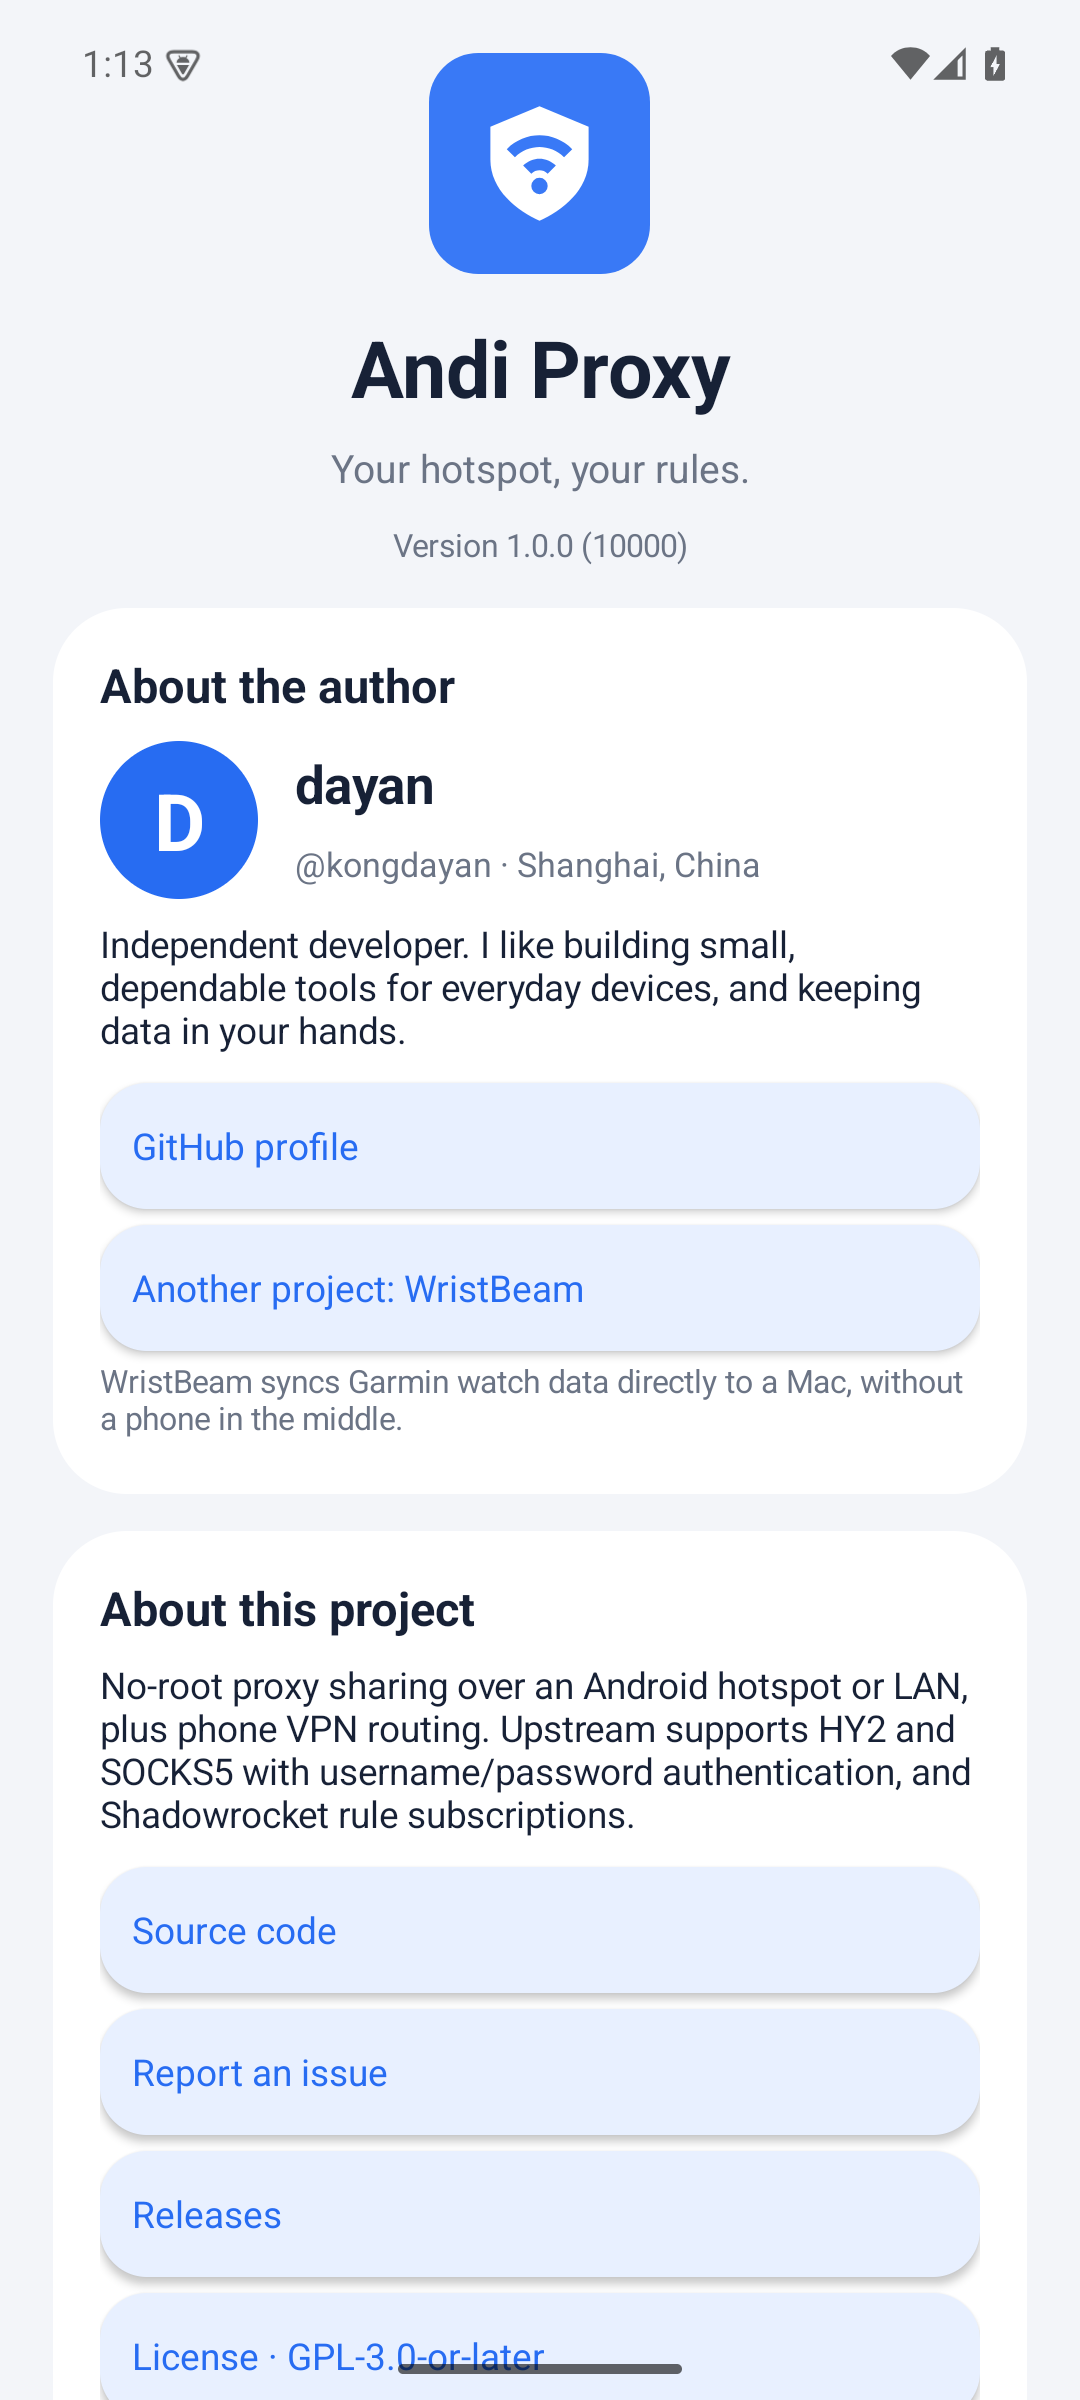
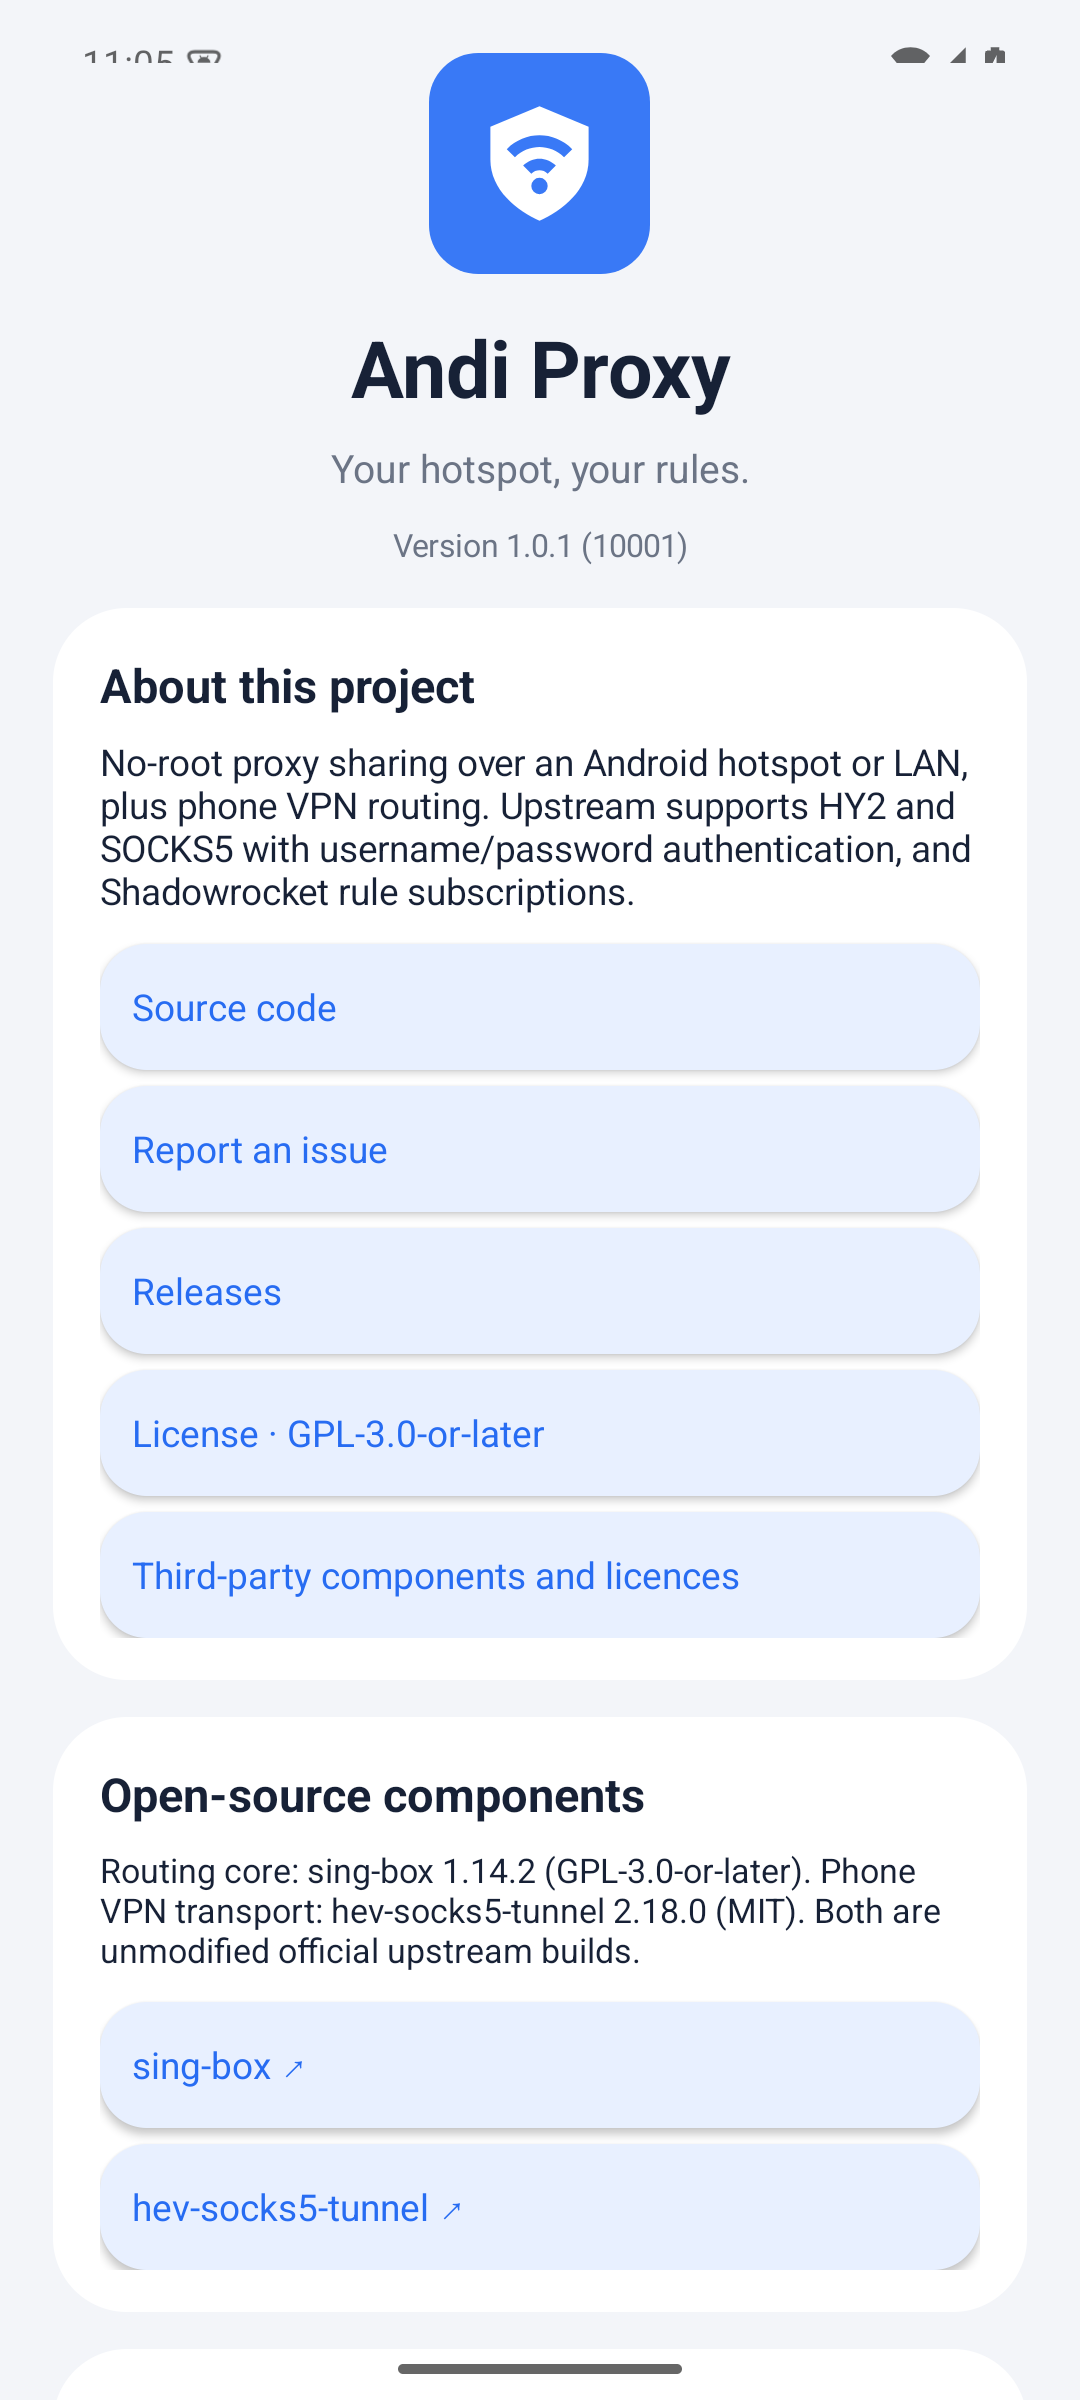
Remove personal author UI and prepare 1.0.1

diff --git a/app/src/main/java/com/andi/proxy/AboutActivity.java b/app/src/main/java/com/andi/proxy/AboutActivity.java
@@ -20,7 +20,7 @@ import java.io.ByteArrayOutputStream;
 import java.io.InputStream;
 import java.nio.charset.StandardCharsets;
 
-/** Author, source, licence and privacy information bundled with the APK. */
+/** Project, source, licence and privacy information bundled with the APK. */
 public final class AboutActivity extends Activity {
     private int GREEN, INK, MUTED, BACK, CARD;
     private boolean dark;
@@ -49,14 +49,9 @@ public final class AboutActivity extends Activity {
         setContentView(scroll);
 
         header();
-        author();
         project();
         components();
         privacy();
-        TextView footer = text(L.t("由 Andi Proxy 用心制作"), 12, MUTED);
-        footer.setGravity(Gravity.CENTER);
-        footer.setPadding(0, dp(18), 0, dp(8));
-        content.addView(footer);
     }
 
     private void header() {
@@ -80,40 +75,6 @@ public final class AboutActivity extends Activity {
         version.setGravity(Gravity.CENTER);
         version.setPadding(0, dp(6), 0, dp(16));
         content.addView(version);
-    }
-
-    private void author() {
-        LinearLayout card = card(L.t("关于作者"));
-        LinearLayout row = new LinearLayout(this);
-        row.setGravity(Gravity.CENTER_VERTICAL);
-        row.setPadding(0, dp(4), 0, dp(4));
-
-        TextView monogram = new TextView(this);
-        monogram.setText("D");
-        monogram.setTextColor(Color.WHITE);
-        monogram.setTextSize(30);
-        monogram.setTypeface(null, Typeface.BOLD);
-        monogram.setGravity(Gravity.CENTER);
-        GradientDrawable avatar = new GradientDrawable();
-        avatar.setShape(GradientDrawable.OVAL);
-        avatar.setColor(GREEN);
-        monogram.setBackground(avatar);
-        row.addView(monogram, new LinearLayout.LayoutParams(dp(60), dp(60)));
-
-        LinearLayout labels = new LinearLayout(this);
-        labels.setOrientation(LinearLayout.VERTICAL);
-        labels.setPadding(dp(14), 0, 0, 0);
-        TextView authorName = text("Andi Proxy", 20, INK);
-        authorName.setTypeface(null, Typeface.BOLD);
-        labels.addView(authorName);
-        labels.addView(text("contributors · " + L.t(""), 13, MUTED));
-        row.addView(labels);
-        card.addView(row);
-
-        card.addView(text(L.t("独立开发者。喜欢为日常设备做一些小而可靠的工具，让数据留在自己手里。"), 14, INK));
-        button(card, L.t("GitHub 主页"), () -> open(BuildConfig.AUTHOR_URL));
-        button(card, L.t("另一个项目：the companion project"), () -> open(BuildConfig.AUTHOR_PROJECT_URL));
-        card.addView(text(L.t("the companion project 把 Garmin 手表的数据直接同步到 Mac，不经过手机。"), 12, MUTED));
     }
 
     private void project() {

diff --git a/app/src/main/java/com/andi/proxy/MainActivity.java b/app/src/main/java/com/andi/proxy/MainActivity.java
@@ -224,7 +224,7 @@ public final class MainActivity extends Activity {
         button(advanced,L.t("设备诊断"),()->worker.execute(()->{ String r=DeviceDiagnostics.report(CoreRunner.binary(this)); runOnUiThread(()->help(L.t("设备诊断"),r)); }));
         LinearLayout about=card(L.t("关于"));
         about.addView(text(L.t("Andi Proxy · 无需 root 的热点代理共享。"),14,INK));
-        button(about,L.t("作者与开源信息"),()->startActivity(new Intent(this,AboutActivity.class)));
+        button(about,L.t("开源信息"),()->startActivity(new Intent(this,AboutActivity.class)));
         button(about,L.t("查看源代码"),()->openUrl(BuildConfig.PROJECT_URL));
         button(content,L.t("怎么使用"),this::usageGuide);
     }

diff --git a/README.ja.md b/README.ja.md
@@ -43,10 +43,6 @@ root も `iptables` も不要で、常時接続のリモートコントロール
 
 スクリーンショットは英語 UI です。アプリは簡体字中国語・日本語・韓国語・ロシア語にも対応しています。「設定 → 言語」または Android のアプリごとの言語設定で切り替えられます。
 
-| Japanese About | Russian home |
-| --- | --- |
-| ![Japanese About](docs/images/about-ja.png) | ![Russian home](docs/images/home-ru.png) |
-
 ## 機能
 
 | 分野 | できること |
@@ -221,9 +217,3 @@ Issue、プルリクエスト、実機での動作報告、翻訳の修正を歓
 Andi Proxy は **GPL-3.0-or-later** の下でライセンスされています。詳しくは [LICENSE](LICENSE) と [COPYRIGHT](COPYRIGHT) を参照してください。同梱の sing-box バイナリは GPL-3.0-or-later、hev-socks5-tunnel は MIT です。正確なバージョン、ソースへのリンク、SHA-256 ダイジェストは [THIRD_PARTY_NOTICES.md](THIRD_PARTY_NOTICES.md) に記載しています。アプリアイコンはオリジナルのベクターアセットです。
 
 本プロジェクトは独立したプロジェクトであり、SagerNet、sing-box、hev-socks5-tunnel、Samsung、Google とは関係ありません。
-
-## 作者について
-
-**Andi Proxy**（[contributors](https://github.com/kongdayan/andi-proxy)）は上海を拠点とする独立開発者です。Andi Proxy は、Garmin ウォッチのデータを Mac に直接同期するネイティブ macOS 向けヘルスコンパニオンアプリ [the companion project](https://github.com/kongdayan/andi-proxy) の兄弟プロジェクトにあたります。どちらのプロジェクトにも同じ考え方が流れています。データは自分のデバイスの手元に置き、日々使うツールは小さく、静かで、頼りになるものであるべきだと、そういう考え方です。
-
-作者とプロジェクトへのリンクは、アプリ内の「設定 → 作者とオープンソース情報」にも掲載しています。

diff --git a/README.zh-CN.md b/README.zh-CN.md
@@ -43,10 +43,6 @@ Andi Proxy 能把一部普通的 Android 手机变成一台小巧、自成一体
 
 截图使用英文界面。应用还提供简体中文、日语、韩语和俄语。可在「设置 → 语言」或 Android 的分应用语言设置中切换。
 
-| Japanese About | Russian home |
-| --- | --- |
-| ![Japanese About](docs/images/about-ja.png) | ![Russian home](docs/images/home-ru.png) |
-
 ## 功能
 
 | 类别 | 你能得到什么 |
@@ -221,9 +217,3 @@ scripts/                            pinned core fetch, i18n validation, smoke te
 Andi Proxy 以 **GPL-3.0-or-later** 许可证发布，详见 [LICENSE](LICENSE) 与 [COPYRIGHT](COPYRIGHT)。随附的 sing-box 二进制同样为 GPL-3.0-or-later；hev-socks5-tunnel 为 MIT。确切的版本、源码链接与 SHA-256 摘要列于 [THIRD_PARTY_NOTICES.md](THIRD_PARTY_NOTICES.md)。应用图标为原创矢量素材。
 
 本项目是独立项目，与 SagerNet、sing-box、hev-socks5-tunnel、Samsung 或 Google 均无隶属关系。
-
-## 关于作者
-
-**Andi Proxy**（[contributors](https://github.com/kongdayan/andi-proxy)）是一位常驻上海的自由开发者。Andi Proxy 与 [the companion project](https://github.com/kongdayan/andi-proxy) 是同一系列的作品 —— 后者是一款 macOS 原生健康伴侣应用，可把 Garmin 手表数据直接同步到 Mac。两个项目贯穿同一个理念：把数据留在你自己的设备上，让日常工具小巧、安静、可靠。
-
-作者与项目链接也随应用一起提供，位于 **设置 → 作者与开源信息**。

diff --git a/README.md b/README.md
@@ -43,10 +43,6 @@ There is no root, no `iptables`, no always-on remote control, and no hidden clou
 
 The UI is shown in English. The app also ships Simplified Chinese, Japanese, Korean and Russian. Change it in Settings → Language, or in Android's per-app language settings.
 
-| Japanese About | Russian home |
-| --- | --- |
-| ![Japanese About](docs/images/about-ja.png) | ![Russian home](docs/images/home-ru.png) |
-
 ## Features
 
 | Area | What you get |
@@ -221,9 +217,3 @@ If you add a user-facing string, add it to `app/src/main/assets/i18n/en.json` (a
 Andi Proxy is licensed under **GPL-3.0-or-later**. See [LICENSE](LICENSE) and [COPYRIGHT](COPYRIGHT). The bundled sing-box binary is GPL-3.0-or-later; hev-socks5-tunnel is MIT. Exact versions, source links and SHA-256 digests are listed in [THIRD_PARTY_NOTICES.md](THIRD_PARTY_NOTICES.md). The app icon is an original vector asset.
 
 This independent project is not affiliated with SagerNet, sing-box, hev-socks5-tunnel, Samsung or Google.
-
-## About the author
-
-**Andi Proxy** ([contributors](https://github.com/kongdayan/andi-proxy)) is an independent developer in Shanghai. Andi Proxy is a sibling of [the companion project](https://github.com/kongdayan/andi-proxy), a native macOS health companion that syncs Garmin watch data directly to the Mac. The same idea runs through both projects: keep the data on your own devices and make everyday tools feel small, calm and dependable.
-
-The author and project links are also bundled in the app under **Settings → Author and open-source information**.

diff --git a/docs/BUILDING.md b/docs/BUILDING.md
@@ -67,7 +67,7 @@ Install a specific APK with `adb install -r <path>`.
 ./gradlew :app:assembleRelease -PversionName=1.2.3 -PversionCode=10203
 ```
 
-Defaults are `1.0.0` / `10000`. The release workflow derives the version from the tag (`v1.2.3` → `1.2.3`) and computes `versionCode` as `major * 10000 + minor * 100 + patch`.
+Defaults are `1.0.1` / `10001`. The release workflow derives the version from the tag (`v1.2.3` → `1.2.3`) and computes `versionCode` as `major * 10000 + minor * 100 + patch`.
 
 ## Release signing
 
@@ -87,7 +87,7 @@ export ANDI_KEYSTORE="$PWD/.signing/andi-release.jks"
 export ANDI_KEYSTORE_PASSWORD='…'
 export ANDI_KEY_ALIAS='andi'
 export ANDI_KEY_PASSWORD='…'
-./gradlew :app:assembleRelease -PversionName=1.0.0 -PversionCode=10000
+./gradlew :app:assembleRelease -PversionName=1.0.1 -PversionCode=10001
 ```
 
 If no keystore is configured, the release build falls back to the debug signing key so contributors can still build installable APKs. Such APKs are not suitable for a long-lived release channel: Android requires the same signing key for updates. The CI workflow writes `SIGNING.txt` into the release assets and emits a warning when it falls back to debug signing.
@@ -130,8 +130,8 @@ The checker extracts keys from `L.t(...)` / `L.f(...)`, compares them with `app/
 To publish:
 
 ```sh
-git tag -a v1.0.0 -m "Andi Proxy 1.0.0"
-git push origin v1.0.0
+git tag -a v1.0.1 -m "Andi Proxy 1.0.1"
+git push origin v1.0.1
 ```
 
 The workflow attaches:

diff --git a/docs/ARCHITECTURE.md b/docs/ARCHITECTURE.md
@@ -14,7 +14,7 @@ There is no root component, no `iptables` rule, no background polling service an
 | --- | --- |
 | `MainActivity` | Home, Servers, Rules, Settings; runtime state polling; permission and VPN consent flows |
 | `AppPickerActivity` | Searchable per-app direct list, including system apps |
-| `AboutActivity` | Author, source, releases, licences, privacy notes bundled in the APK |
+| `AboutActivity` | Project, source, releases, licences and privacy notes bundled in the APK |
 | `L` / `AndiApp` | Runtime localisation, language preference and Android per-app locale integration |
 | `ProxyService` | Foreground service; hotspot/LAN lifecycle, core start/stop/apply, notifications, exit check |
 | `LocalVpnService` | `VpnService`, TUN file descriptor, per-app exclusions, hev-socks5-tunnel lifecycle |

diff --git a/CHANGELOG.md b/CHANGELOG.md
@@ -2,6 +2,16 @@
 
 All notable changes to Andi Proxy are documented here. The format is based on [Keep a Changelog](https://keepachangelog.com/en/1.1.0/), and the project follows [Semantic Versioning](https://semver.org/).
 
+## 1.0.1 - 2026-10-18
+
+Privacy cleanup; no proxy behaviour changes.
+
+### Changed
+
+- Removed the in-app author introduction, personal links and footer. The About page now focuses on the project, source, licences and privacy.
+- Removed personal author metadata from the repository history; commits now use a project identity.
+- Version bumped to 1.0.1 (`versionCode` 10001).
+
 ## 1.0.0 - 2026-10-18
 
 The first public, reproducible release.
